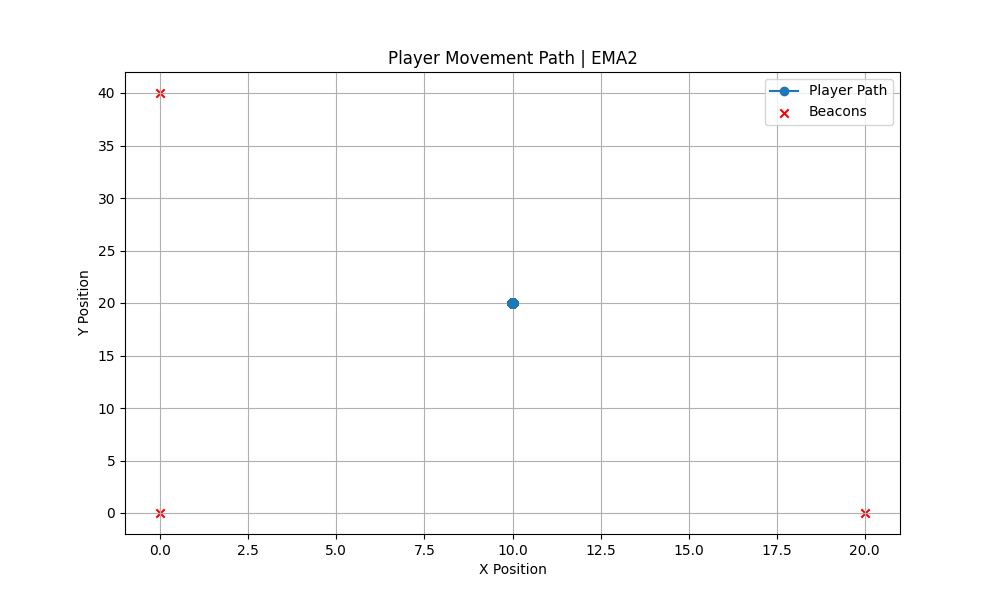
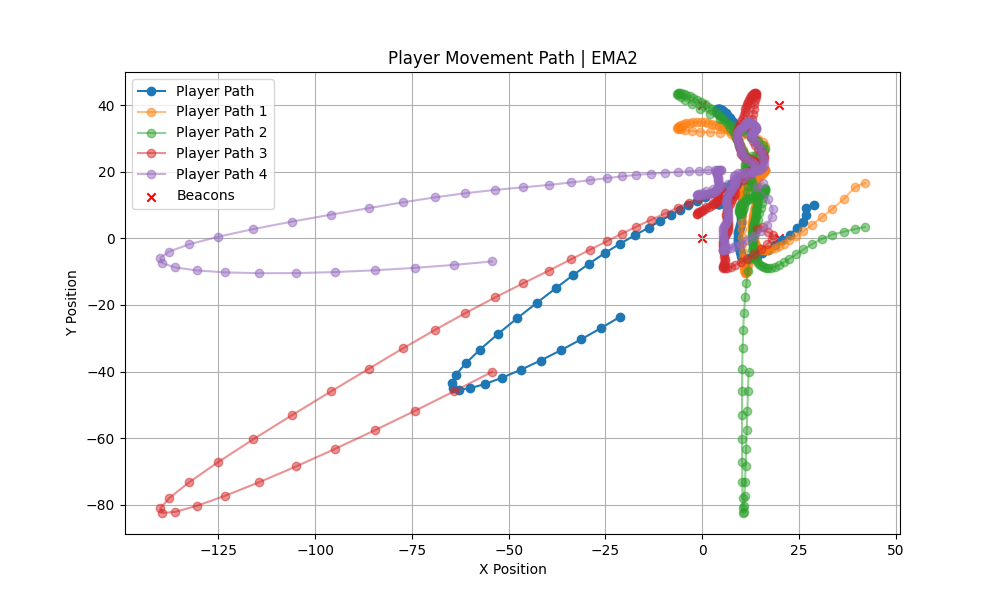
"CM"

diff --git a/final-postprocessing-pipeline.py b/final-postprocessing-pipeline.py
@@ -44,6 +44,86 @@ def smoothData(df, window_size=25):
         smoothed_df[column] = df[column].ewm(span=window_size, adjust=False).mean()
     return smoothed_df
         
+def pipelineRemoveOutliers(df, window_size=20, residual_variance_threshold=1.5, plot=True):
+    """
+    Removes outliers from the data and replaces them with linear fit values.
+    Revamped so it would fit in the pipeline and not include GT
+    """
+    df = df.copy()
+
+    # df['realtimestamp'] = pd.to_datetime(df['realtimestamp'], format='%H:%M:%S.%f')
+
+    pos_data = df['b3d']  # Possible columns: d3, d2, d1, d4 
+
+    # Compute residual variance from a linear fit
+    def residual_variance(y):
+        x = np.arange(len(y)).reshape(-1, 1) # Create an index array as the x variable
+        model = LinearRegression()
+        model.fit(x, y)  # Fit linear model
+        fitted_line = model.predict(x) # Predict the linear trend
+        residuals = y - fitted_line # Calculate residuals
+        return np.var(residuals) # Return variance of residuals
+
+    def replace_with_fit(y):
+        x = np.arange(len(y)).reshape(-1, 1)
+        model1 = LinearRegression()
+        model1.fit(x, y)
+        fitted_line1 = model1.predict(x)
+        residuals = y - fitted_line1
+
+        # Deviation in relation to the fitted line
+        std_res = np.std(residuals)
+
+        # No outliers to remove
+        if std_res == 0:
+            return fitted_line1
+
+        outliers_leftout = np.abs(residuals) < (residual_variance_threshold * std_res)
+
+        # New linear fit line without outlier points
+        if np.sum(outliers_leftout) >= 2:
+            model2 = LinearRegression()
+            model2.fit(x[outliers_leftout], y[outliers_leftout])
+            fitted_line2 = model2.predict(x)
+            return fitted_line2
+        else:
+            return fitted_line1
+    
+    # Detect obstacles based on residual variance
+    def detect_obstacles(data, residual_variance_threshold, window_size):
+        residual_variances = data.rolling(window=window_size).apply(residual_variance, raw=True)
+        high_residual_variance = residual_variances > residual_variance_threshold
+        return high_residual_variance
+
+    # Detect obstacles
+    df['obstacle_detected'] = detect_obstacles(pos_data, residual_variance_threshold, window_size)
+
+    adjusted_pos_data = pos_data.copy()
+    adjusted_pos_data = pos_data.copy().astype(float) # Needs to be float64
+
+    # Replace detected outliers within a sliding window
+    for i in range(len(pos_data) - window_size + 1):
+        start_index = max(0, i - window_size // 2)
+        end_index = min(len(pos_data), i + window_size // 2)
+        if df['obstacle_detected'].iloc[start_index:end_index].any():
+            window_slice = pos_data.iloc[start_index:end_index].values
+            replacement_values = replace_with_fit(window_slice)
+            for j in range(start_index, end_index):
+                curr_window_index = j - start_index
+                adjusted_pos_data.iloc[j] = min(replacement_values[curr_window_index], pos_data.iloc[j])
+
+    # Probably can get rid of this 
+    # plt.figure()
+    # plt.plot(df['realtimestamp'], pos_data, label="Measurement")
+    # plt.plot(df['realtimestamp'], adjusted_pos_data, label="Obstacle Replaced")
+    # plt.title(f"{title} Measurement with Obstacle Replacement")
+    # plt.legend()
+    # plt.savefig(os.path.join(os.getcwd(), f'charts/{title}_path.png'))
+    # if plot: plt.show()
+    # plt.close()
+
+    return df
+
 def removeOutliers(df, window_size=10, residual_variance_threshold=1.5):
     """Removes outliers from a dataframe using a rolling residual variance threshold.
 
@@ -99,6 +179,7 @@ def removeOutliers(df, window_size=10, residual_variance_threshold=1.5):
     return df
 
 # need to replace with the actual kalman in Final-kalman
+# Need to replace with acc-bound
 def kalmanFilter(df, x=np.array([10.0, 0]), P=np.diag([30, 16]), R=np.array([[5.]]), Q=Q_discrete_white_noise(dim=2, dt=0.3, var=2.35), dt=0.3):
     """
     Applies the Kalman filter to every column in the dataframe that starts with 'b'.
@@ -226,6 +307,7 @@ def plot1d(dfs, plot=True):
         plt.grid()
         plt.savefig(os.path.join(os.getcwd(), f'charts/{beacon}_distance.png'))
         if plot: plt.show()
+        plt.close()
 
 def plotPlayers(data, beacons, plot=True):
     """
@@ -274,32 +356,56 @@ def plotPlayers(data, beacons, plot=True):
             raise ValueError("The beacons' positions don't allow for a unique solution")
         
         return position
-
-    def calulate_avg_position():
-        pass
     
     # Calculate player positions using trilateration
     # calculate the players positions based on the best trilateration data (three circle selma example, closest three circles)
     # calc based on averages of all combinations of 3 beacons
     # calc based on most likely next position based on acc data
     player_positions = []
+    player_positions1 = []
+    player_positions2 = []
+    player_positions3 = []
+    player_positions4 = []
+
 
     for index, row in df.iterrows():
         if index == 0: continue # skip first row
-        distances = [row[col] / 100 for col in df.columns if col.startswith('b')] # div by 100 to convert to meters
-        distances = distances[:-1] # remove the last column
+        distances = np.array([row[col] / 100 for col in df.columns if col.startswith('b')]) # div by 100 to convert to meters
         try:
-            position = trilaterate_one(beacons, distances)
-            player_positions.append(position)
+            #calculate the position of the player based on a combo of three beacons
+            position1 = trilaterate_one(beacons[[0, 1, 2]], distances[[0, 1, 2]])
+            position2 = trilaterate_one(beacons[[0, 1, 3]], distances[[0, 1, 3]])
+            position3 = trilaterate_one(beacons[[0, 2, 3]], distances[[0, 2, 3]])
+            position4 = trilaterate_one(beacons[[1, 2, 3]], distances[[1, 2, 3]])
+            # save avg, and individual positions
+            player_positions.append(np.mean([position1, position2, position3, position4], axis=0))
+            player_positions1.append(position1)
+            player_positions2.append(position2)
+            player_positions3.append(position3)
+            player_positions4.append(position4)
+
         except ValueError as e:
             print(f"Error at index {index}: {e}")
             player_positions.append([np.nan, np.nan])
+            player_positions1.append([np.nan, np.nan])
+            player_positions2.append([np.nan, np.nan])
+            player_positions3.append([np.nan, np.nan])
+            player_positions4.append([np.nan, np.nan])
+
 
     player_positions = np.array(player_positions)
+    player_positions1 = np.array(player_positions1)
+    player_positions2 = np.array(player_positions2)
+    player_positions3 = np.array(player_positions3)
+    player_positions4 = np.array(player_positions4)
 
     # Plot player positions
     plt.figure(figsize=(10, 6))
     plt.plot(player_positions[:, 0], player_positions[:, 1], 'o-', label='Player Path')
+    plt.plot(player_positions1[:, 0], player_positions1[:, 1], 'o-', label='Player Path 1', alpha=0.5)
+    plt.plot(player_positions2[:, 0], player_positions2[:, 1], 'o-', label='Player Path 2', alpha=0.5)
+    plt.plot(player_positions3[:, 0], player_positions3[:, 1], 'o-', label='Player Path 3', alpha=0.5)
+    plt.plot(player_positions4[:, 0], player_positions4[:, 1], 'o-', label='Player Path 4', alpha=0.5)
     plt.scatter(beacons[:, 0], beacons[:, 1], c='red', marker='x', label='Beacons')
     plt.xlabel('X Position')
     plt.ylabel('Y Position')
@@ -308,10 +414,15 @@ def plotPlayers(data, beacons, plot=True):
     plt.grid()
     plt.savefig(os.path.join(os.getcwd(), f'charts/{title}_path.png'))
     if plot: plt.show()
+    plt.close()
 
 
 
 def main():
+    # clear charts
+    for f in os.listdir(os.path.join(os.getcwd(), 'charts')):
+        os.remove(os.path.join(os.getcwd(), 'charts', f))
+
     # Process the data
     csv_filename = "4beaconv1.csv"
     dfs = processData(csv_filename)
@@ -320,16 +431,17 @@ def main():
     plot1d(dfs, plot=False)
 
     # Compare to GT Data
-    # Load initial DF
+    # Load GT DF
     gt = loadData("GroundyTruthy.csv")
-    # gt = pd.DataFrame("GroundyTruthy.csv")
     for df in dfs:
-        analyze_ftm_data(df[1], gt, title=df[0])
+        analyze_ftm_data(df[1], gt, title=df[0], plot=False)
 
     # Plot the final DFs
-    beaconPositions = np.array([[20, 0], [0, 0], [0, 40]])
+    beaconPositions = np.array([[20, 0], [0, 0], [0, 40], [20, 40]])
     for d in dfs:
-        plotPlayers(d, beaconPositions)
+        plotPlayers(d, beaconPositions, plot=False)
+
+    
 
 if __name__ == "__main__":
     main()

diff --git a/Final-outlier2.py b/Final-outlier2.py
@@ -5,28 +5,16 @@ import matplotlib.pyplot as plt
 from sklearn.linear_model import LinearRegression
 import numpy as np
 
-def removeOutliers(window_size=20, residual_variance_threshold=1.5):
+def pipelineRemoveOutliers(df, window_size=20, residual_variance_threshold=1.5, plot=True):
     """
-    Reads the ground-truth and beacon CSV files, computes/residual variance
-    in a rolling window, detects obstacles (outliers), replaces them with 
-    linear fit values, and can plot the results.
-
-    Curr Args (most likely needs updating):
-        window_size (int, optional): _description_. Defaults to 20.
-        residual_variance_threshold (float, optional): _description_. Defaults to 1.5.
-
+    Removes outliers from the data and replaces them with linear fit values.
+    Revamped so it would fit in the pipeline and not include GT
     """
+    df = df.copy()
 
-    groundtruth_file = os.path.join("data", "groundtruth-plus.csv")  # Correctly join paths
-    groundtruth = pd.read_csv(groundtruth_file)
-    groundtruth['timestamp'] = pd.to_datetime(groundtruth['timestamp'], format='%H:%M:%S')
-    true_dist = groundtruth['d2']  # Possible columns: d2, d1, d4, d3 
-
-    datafile = os.path.join("data", "beaconv1.csv")  # Correctly join paths
-    df = pd.read_csv(datafile)
     df['realtimestamp'] = pd.to_datetime(df['realtimestamp'], format='%H:%M:%S.%f')
-    pos_data = df['d3']  # Possible columns: d3, d2, d1, d4 
 
+    pos_data = df['b3d']  # Possible columns: d3, d2, d1, d4 
 
     # Compute residual variance from a linear fit
     def residual_variance(y):
@@ -69,7 +57,104 @@ def removeOutliers(window_size=20, residual_variance_threshold=1.5):
         return high_residual_variance
 
     # Detect obstacles
-    ground_truth = np.interp(df['realtimestamp'].astype(np.int64),groundtruth['timestamp'].astype(np.int64),true_dist * 100)
+    if gt: ground_truth = np.interp(df['realtimestamp'].astype(np.int64),groundtruth['timestamp'].astype(np.int64),true_dist * 100)
+    df['obstacle_detected'] = detect_obstacles(pos_data, residual_variance_threshold, window_size)
+
+    adjusted_pos_data = pos_data.copy()
+    adjusted_pos_data = pos_data.copy().astype(float) # Needs to be float64
+
+    # Replace detected outliers within a sliding window
+    for i in range(len(pos_data) - window_size + 1):
+        start_index = max(0, i - window_size // 2)
+        end_index = min(len(pos_data), i + window_size // 2)
+        if df['obstacle_detected'].iloc[start_index:end_index].any():
+            window_slice = pos_data.iloc[start_index:end_index].values
+            replacement_values = replace_with_fit(window_slice)
+            for j in range(start_index, end_index):
+                curr_window_index = j - start_index
+                adjusted_pos_data.iloc[j] = max(min(replacement_values[curr_window_index], pos_data.iloc[j]), ground_truth[j])
+
+    # Probably can get rid of this 
+    # plt.figure()
+    # plt.plot(df['realtimestamp'], pos_data, label="Measurement")
+    # plt.plot(df['realtimestamp'], adjusted_pos_data, label="Obstacle Replaced")
+    # plt.title(f"{title} Measurement with Obstacle Replacement")
+    # plt.legend()
+    # plt.savefig(os.path.join(os.getcwd(), f'charts/{title}_path.png'))
+    # if plot: plt.show()
+    # plt.close()
+
+    return df
+
+
+def removeOutliers(data, window_size=20, residual_variance_threshold=1.5, plot=True, gt=False):
+    """
+    Reads the ground-truth and beacon CSV files, computes/residual variance
+    in a rolling window, detects obstacles (outliers), replaces them with 
+    linear fit values, and can plot the results.
+
+    Curr Args (most likely needs updating):
+        window_size (int, optional): _description_. Defaults to 20.
+        residual_variance_threshold (float, optional): _description_. Defaults to 1.5.
+
+    """
+
+    if gt:
+        groundtruth_file = os.path.join("data", "groundtruth-plus.csv")  # Correctly join paths
+        groundtruth = pd.read_csv(groundtruth_file)
+        groundtruth['timestamp'] = pd.to_datetime(groundtruth['timestamp'], format='%H:%M:%S')
+        true_dist = groundtruth['d2']  # Possible columns: d2, d1, d4, d3 
+    else:
+
+        df['realtimestamp'] = pd.to_datetime(df['realtimestamp'], format='%H:%M:%S.%f')
+        pos_data = df['d3']  # Possible columns: d3, d2, d1, d4 
+        # fix up here
+
+    title = data[0]
+    df = data[1]
+
+    # Compute residual variance from a linear fit
+    def residual_variance(y):
+        x = np.arange(len(y)).reshape(-1, 1) # Create an index array as the x variable
+        model = LinearRegression()
+        model.fit(x, y)  # Fit linear model
+        fitted_line = model.predict(x) # Predict the linear trend
+        residuals = y - fitted_line # Calculate residuals
+        return np.var(residuals) # Return variance of residuals
+
+    def replace_with_fit(y):
+        x = np.arange(len(y)).reshape(-1, 1)
+        model1 = LinearRegression()
+        model1.fit(x, y)
+        fitted_line1 = model1.predict(x)
+        residuals = y - fitted_line1
+
+        # Deviation in relation to the fitted line
+        std_res = np.std(residuals)
+
+        # No outliers to remove
+        if std_res == 0:
+            return fitted_line1
+
+        outliers_leftout = np.abs(residuals) < (residual_variance_threshold * std_res)
+
+        # New linear fit line without outlier points
+        if np.sum(outliers_leftout) >= 2:
+            model2 = LinearRegression()
+            model2.fit(x[outliers_leftout], y[outliers_leftout])
+            fitted_line2 = model2.predict(x)
+            return fitted_line2
+        else:
+            return fitted_line1
+    
+    # Detect obstacles based on residual variance
+    def detect_obstacles(data, residual_variance_threshold, window_size):
+        residual_variances = data.rolling(window=window_size).apply(residual_variance, raw=True)
+        high_residual_variance = residual_variances > residual_variance_threshold
+        return high_residual_variance
+
+    # Detect obstacles
+    if gt: ground_truth = np.interp(df['realtimestamp'].astype(np.int64),groundtruth['timestamp'].astype(np.int64),true_dist * 100)
     df['obstacle_detected'] = detect_obstacles(pos_data, residual_variance_threshold, window_size)
 
     adjusted_pos_data = pos_data.copy()
@@ -91,12 +176,14 @@ def removeOutliers(window_size=20, residual_variance_threshold=1.5):
     plt.plot(groundtruth['timestamp'], true_dist * 100, label="Ground Truth")
     plt.plot(df['realtimestamp'], pos_data, label="Measurement")
     plt.plot(df['realtimestamp'], adjusted_pos_data, label="Obstacle Replaced")
-    plt.title("Ground Truth/Measurement/Measurement with Obstacle Replacement")
+    plt.title(f"{title} Measurement with Obstacle Replacement")
     plt.legend()
-    plt.show()
+    plt.savefig(os.path.join(os.getcwd(), f'charts/{title}_path.png'))
+    if plot: plt.show()
+    plt.close()
 
 def main():
-    # removeOutliers()
+    removeOutliers()
     pass
 
 if __name__ == "__main__":

diff --git a/analyze_ftm_data.py b/analyze_ftm_data.py
@@ -25,6 +25,7 @@ def analyze_ftm_data(df_meas: pd.DataFrame, df_gt: pd.DataFrame, plot=False, tit
          - green x => merged measured points
       6) Save merged to "merged_results.csv"
     """
+    df_meas = df_meas.copy()
 
     # 1) Parse timestamps with "HH:MM:SS.sss" if needed
     if not pd.api.types.is_datetime64_any_dtype(df_meas['timestamp']):
@@ -122,6 +123,7 @@ def analyze_ftm_data(df_meas: pd.DataFrame, df_gt: pd.DataFrame, plot=False, tit
     plt.tight_layout()
     plt.savefig(os.path.join(os.getcwd(), f'charts/{title}_gt.png'))
     if plot: plt.show()
+    plt.close()
 
     # 6) Save
     df_merged.to_csv("merged_results.csv", index=False)

diff --git a/kalman_filter_acc_bound.py b/kalman_filter_acc_bound.py
@@ -8,6 +8,7 @@ from kalman_plotting import plot_results
 import matplotlib.pyplot as plt
 
 
+
 def pos_vel_filter(x, P, R, Q=0., dt=1.):
     """ Returns a KalmanFilter which implements a
     constant velocity model for a state [x dx].T

diff --git a/tempCodeRunnerFile.py b/tempCodeRunnerFile.py
@@ -1,1 +1,2 @@
-pd.read_csv(filename)
+ta[0]
+    # df = data[
